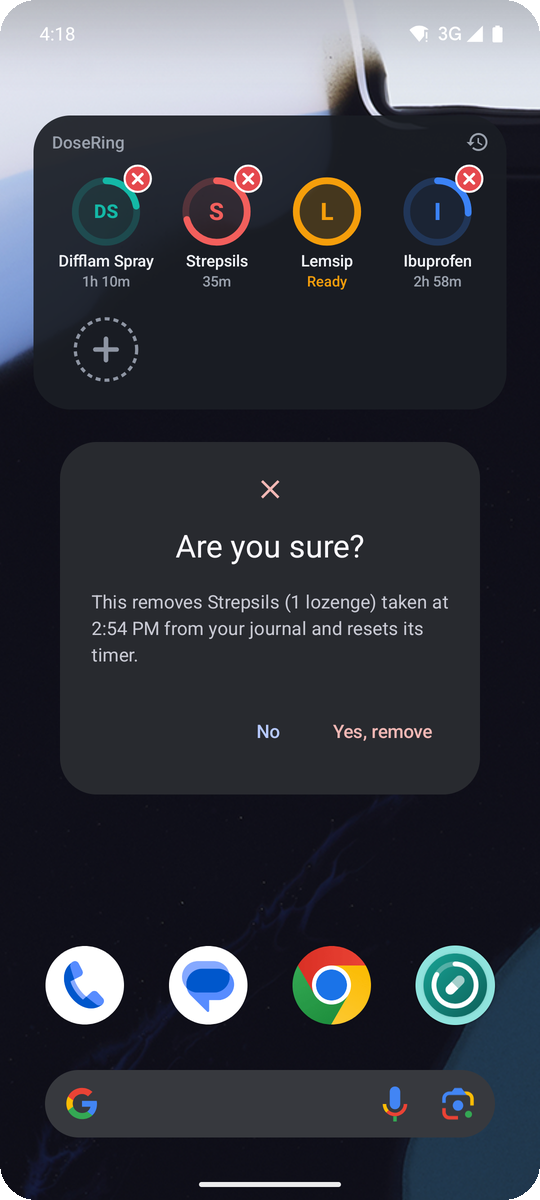
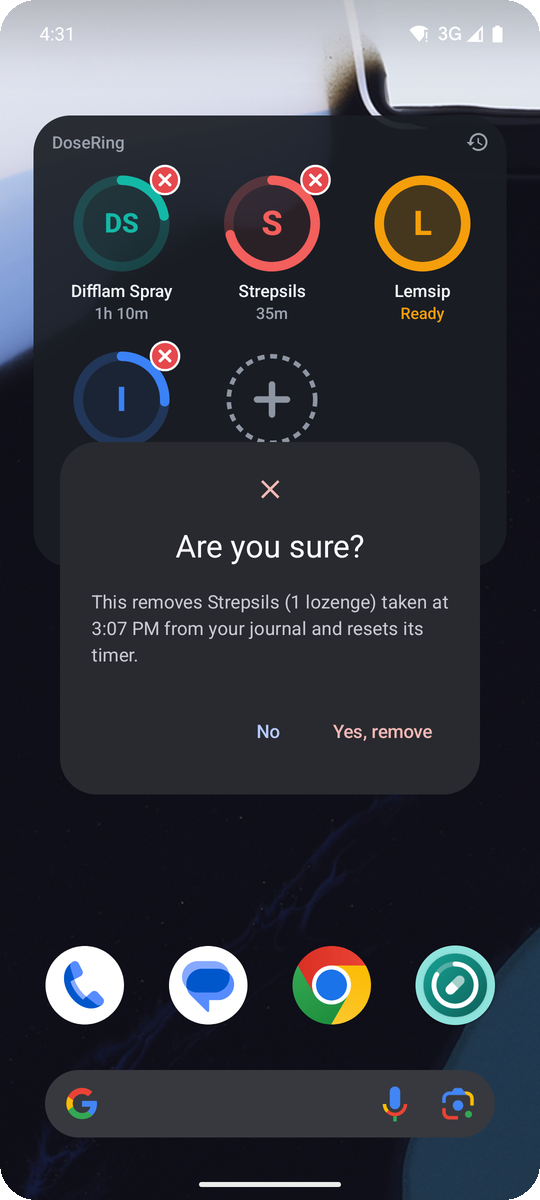
feat(widget): three medicines per row with rings sized to the widget
Four tiles per row made the rings too small to read at a glance. The grid now
uses three fixed columns and each ring is sized from the widget's width
(44-76dp), so bigger widgets get bigger rings. New widgets default to 4x3 so
two rows fit. Screenshots, banner and the widget-picker preview are refreshed.

Changed region(s): [[0.1185, 0.1233, 0.8889, 0.37], [0.563, 0.3083, 0.5926, 0.37], [0.2074, 0.4933, 0.237, 0.5242]]

diff --git a/app/src/main/java/com/nikkras/dosering/widget/WidgetUpdater.kt b/app/src/main/java/com/nikkras/dosering/widget/WidgetUpdater.kt
@@ -5,6 +5,7 @@ import android.appwidget.AppWidgetManager
 import android.content.ComponentName
 import android.content.Context
 import android.content.Intent
+import android.util.TypedValue
 import android.view.View
 import android.widget.RemoteViews
 import com.nikkras.dosering.R
@@ -20,8 +21,15 @@ import kotlin.math.roundToInt
 object WidgetUpdater {
 
     private const val PLUS_ITEM_ID = Long.MAX_VALUE
-    private const val RING_DP = 54f
     private const val PLUS_COLOR = 0xFF8E95A3.toInt()
+
+    // Must match widget_root.xml: three columns, 16dp of horizontal padding.
+    private const val COLUMNS = 3
+    private const val GRID_PADDING_DP = 16
+    // Room around a ring for the cancel badge and spacing between columns.
+    private const val TILE_CHROME_DP = 30
+    private const val RING_MIN_DP = 44
+    private const val RING_MAX_DP = 76
 
     fun widgetIds(context: Context): IntArray =
         AppWidgetManager.getInstance(context)
@@ -67,19 +75,35 @@ object WidgetUpdater {
         )
         views.setViewVisibility(R.id.hint, if (meds.isEmpty()) View.VISIBLE else View.GONE)
 
-        val ringPx = (RING_DP * context.resources.displayMetrics.density).roundToInt()
+        val ringDp = ringSizeDp(AppWidgetManager.getInstance(context), widgetId)
+        val ringPx = (ringDp * context.resources.displayMetrics.density).roundToInt()
         val items = RemoteViews.RemoteCollectionItems.Builder()
             .setHasStableIds(true)
             .setViewTypeCount(1)
-        meds.forEach { med -> items.addItem(med.id, tile(context, med, latest[med.id], now, ringPx)) }
-        items.addItem(PLUS_ITEM_ID, plusTile(context, ringPx))
+        meds.forEach { med -> items.addItem(med.id, tile(context, med, latest[med.id], now, ringDp, ringPx)) }
+        items.addItem(PLUS_ITEM_ID, plusTile(context, ringDp, ringPx))
         views.setRemoteAdapter(R.id.grid, items.build())
         return views
     }
 
-    private fun tile(context: Context, med: Medication, last: Intake?, now: Long, ringPx: Int): RemoteViews {
+    /** Rings grow with the widget: a third of its width, minus room for the badge. */
+    private fun ringSizeDp(manager: AppWidgetManager, widgetId: Int): Int {
+        // On phones the portrait width is reported as the minimum width.
+        val widthDp = manager.getAppWidgetOptions(widgetId)
+            .getInt(AppWidgetManager.OPTION_APPWIDGET_MIN_WIDTH)
+            .takeIf { it > 0 } ?: 300
+        return ((widthDp - GRID_PADDING_DP) / COLUMNS - TILE_CHROME_DP).coerceIn(RING_MIN_DP, RING_MAX_DP)
+    }
+
+    private fun RemoteViews.sizeRing(ringDp: Int) {
+        setViewLayoutWidth(R.id.ring, ringDp.toFloat(), TypedValue.COMPLEX_UNIT_DIP)
+        setViewLayoutHeight(R.id.ring, ringDp.toFloat(), TypedValue.COMPLEX_UNIT_DIP)
+    }
+
+    private fun tile(context: Context, med: Medication, last: Intake?, now: Long, ringDp: Int, ringPx: Int): RemoteViews {
         val status = DoseLogic.status(med, last, now)
         return RemoteViews(context.packageName, R.layout.widget_tile).apply {
+            sizeRing(ringDp)
             setImageViewBitmap(
                 R.id.ring,
                 RingRenderer.ring(ringPx, med.color, status.progress, DoseLogic.initials(med.name), status.isReady),
@@ -103,8 +127,9 @@ object WidgetUpdater {
         }
     }
 
-    private fun plusTile(context: Context, ringPx: Int): RemoteViews =
+    private fun plusTile(context: Context, ringDp: Int, ringPx: Int): RemoteViews =
         RemoteViews(context.packageName, R.layout.widget_tile).apply {
+            sizeRing(ringDp)
             setImageViewBitmap(R.id.ring, RingRenderer.plus(ringPx, PLUS_COLOR))
             setTextViewText(R.id.name, "")
             setTextViewText(R.id.status, "")

diff --git a/README.md b/README.md
@@ -16,9 +16,9 @@
 It was built for a week with a bad cold: Difflam every 1½ hours, Strepsils every 2, Lemsip and ibuprofen every 4. It is hard to remember which one was when.
 
 <p align="center">
-  <img src="docs/screenshots/widget-closeup.png" alt="DoseRing widget" width="420">
+  <img src="docs/screenshots/widget-closeup.png" alt="DoseRing widget" width="360">
   &nbsp;
-  <img src="docs/screenshots/widget-closeup-light.png" alt="DoseRing widget in light mode" width="420">
+  <img src="docs/screenshots/widget-closeup-light.png" alt="DoseRing widget in light mode" width="360">
 </p>
 
 ## Install
@@ -43,7 +43,7 @@ Requires Android 12 or newer. Updates install over the existing app and keep you
 - **Nameless "+" tile.** Tap it to add a medicine: name, time between doses, dose per tap (mg, ml, sprays, tablets, lozenges…), an optional daily limit and a ring colour.
 - **Journal.** Every dose, grouped by day. Entries can be deleted.
 - **Statistics.** Doses per day over the last 7 or 30 days, per-medicine totals for each day, and a 24-hour view against your limits.
-- **Resizable widget.** Tiles reflow to fit any size. Follows light and dark mode.
+- **Big, readable tiles.** Three medicines per row, with rings that grow with the widget's width. Resize it taller for more rows. Follows light and dark mode.
 - **Private by design.** No account, no ads, no analytics, and no internet permission at all. Everything stays on the phone.
 
 ## Screenshots
